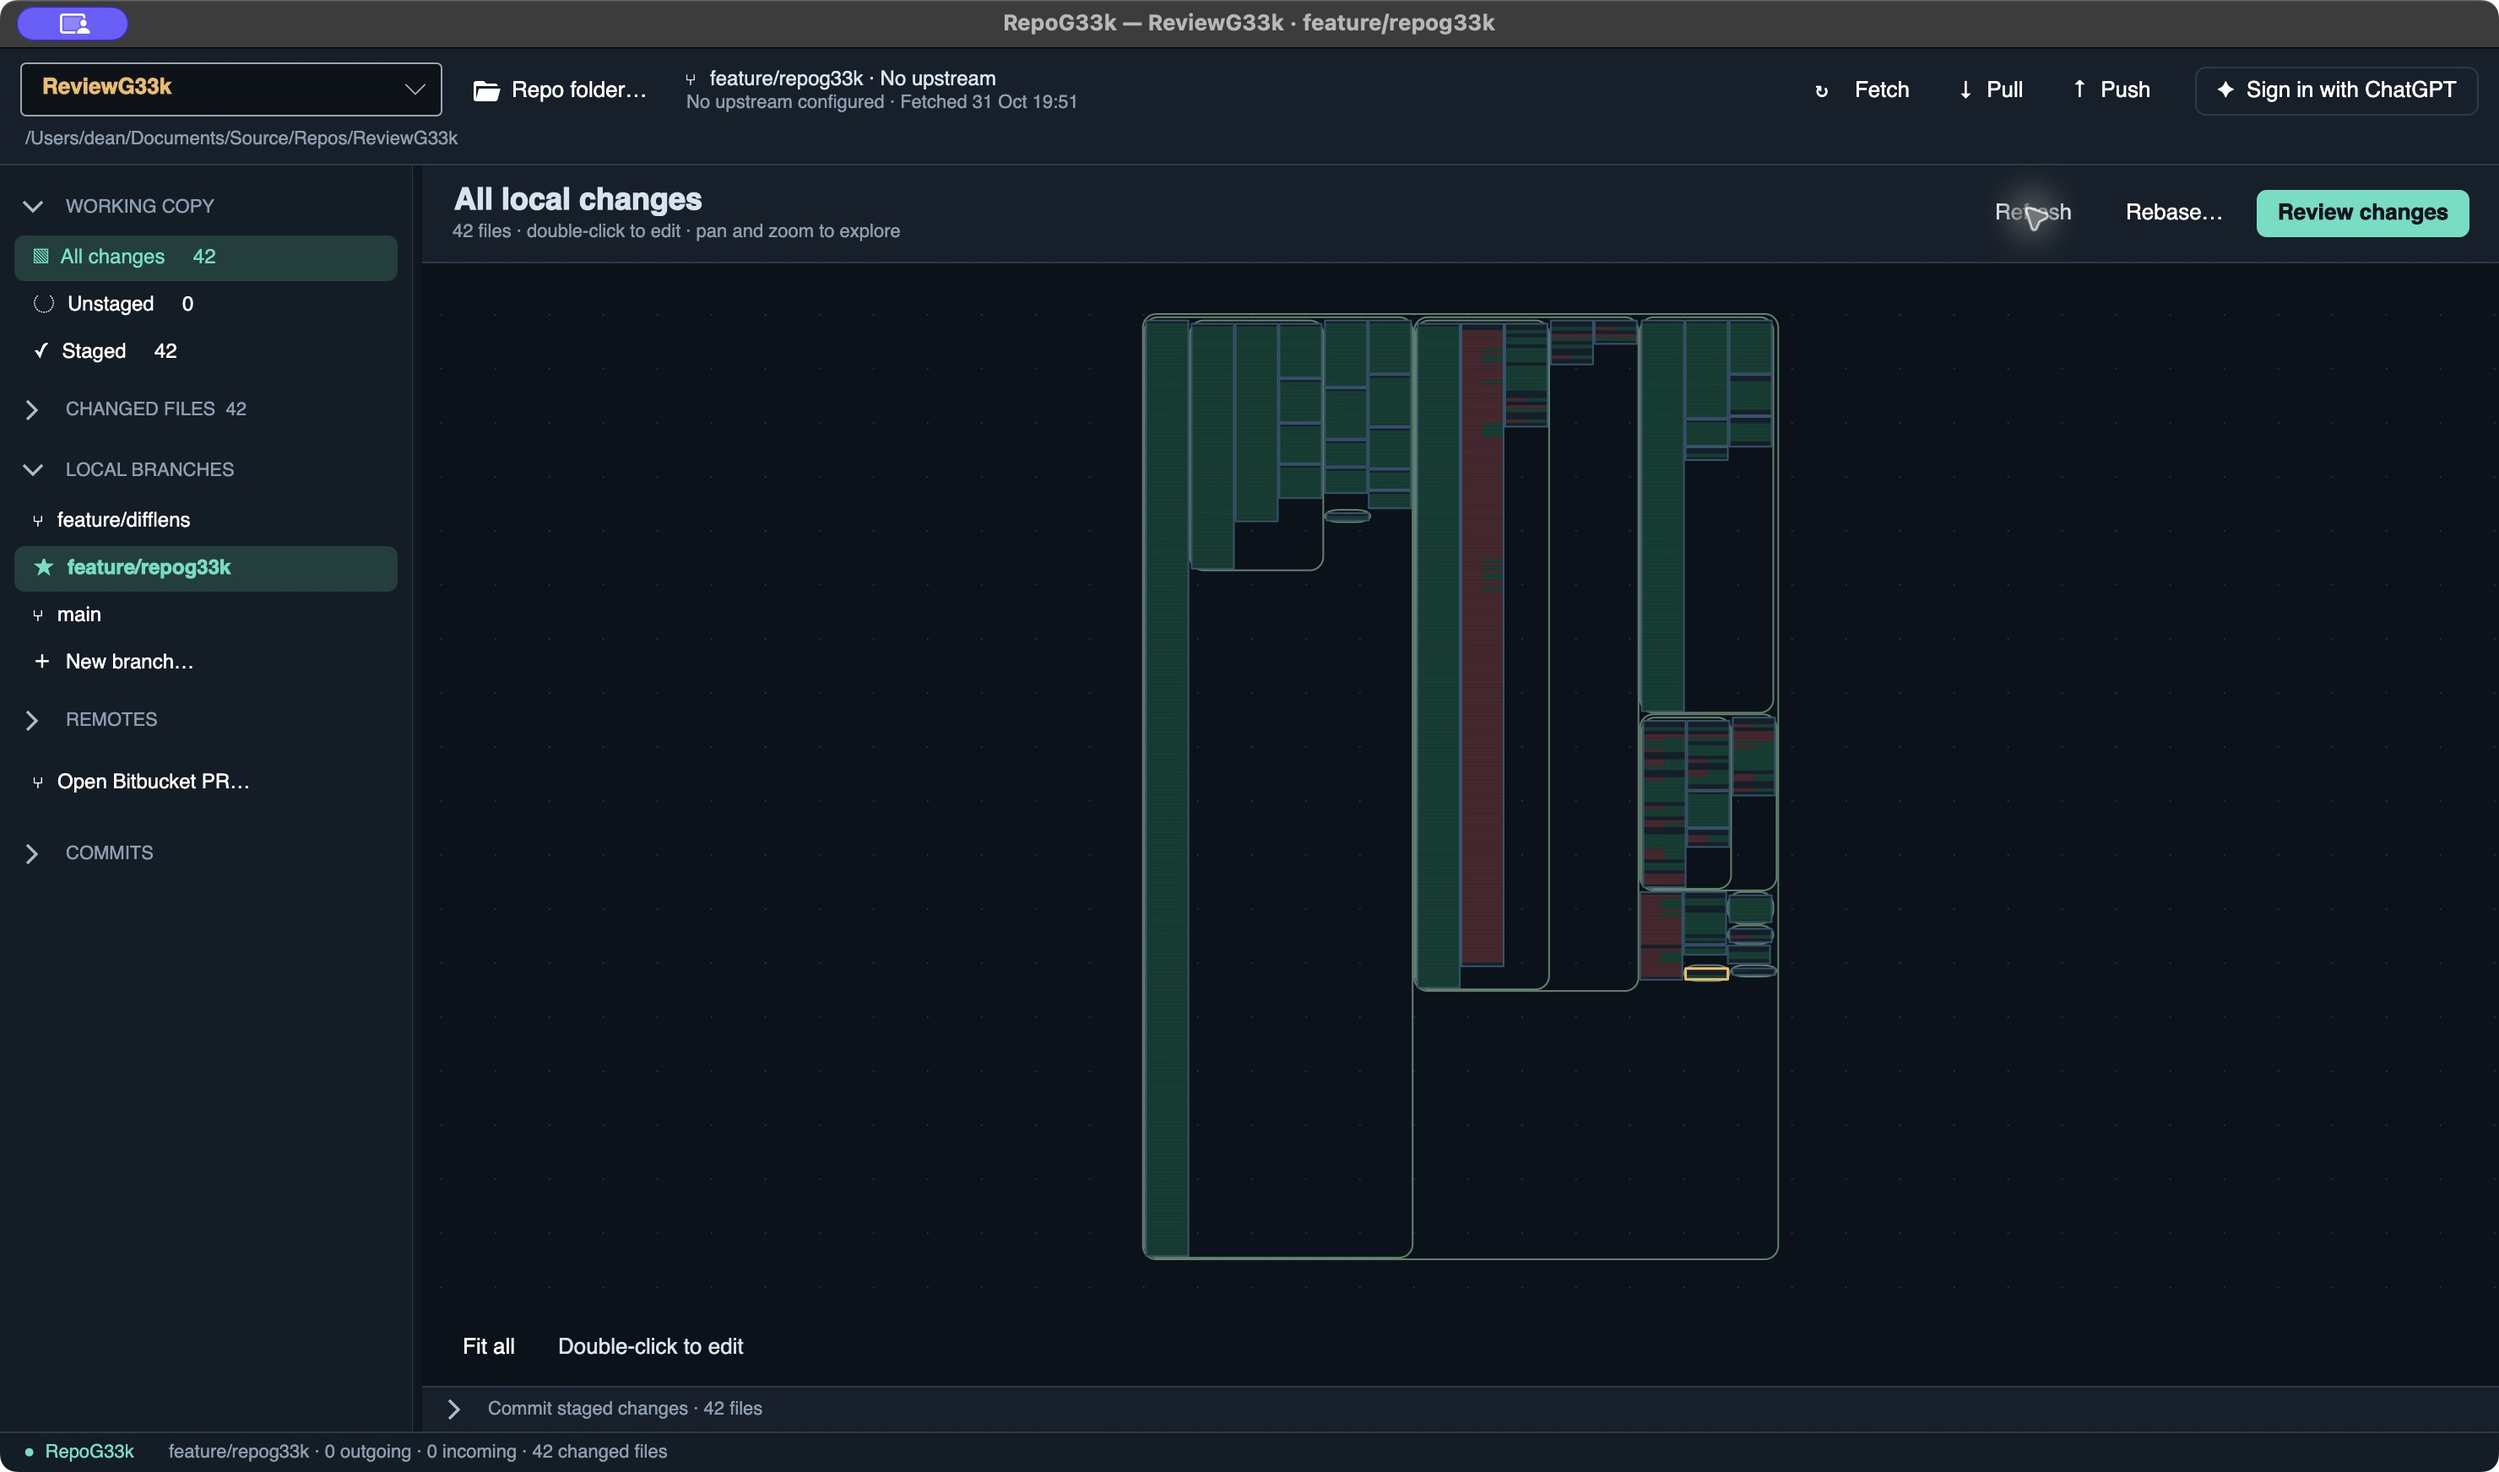
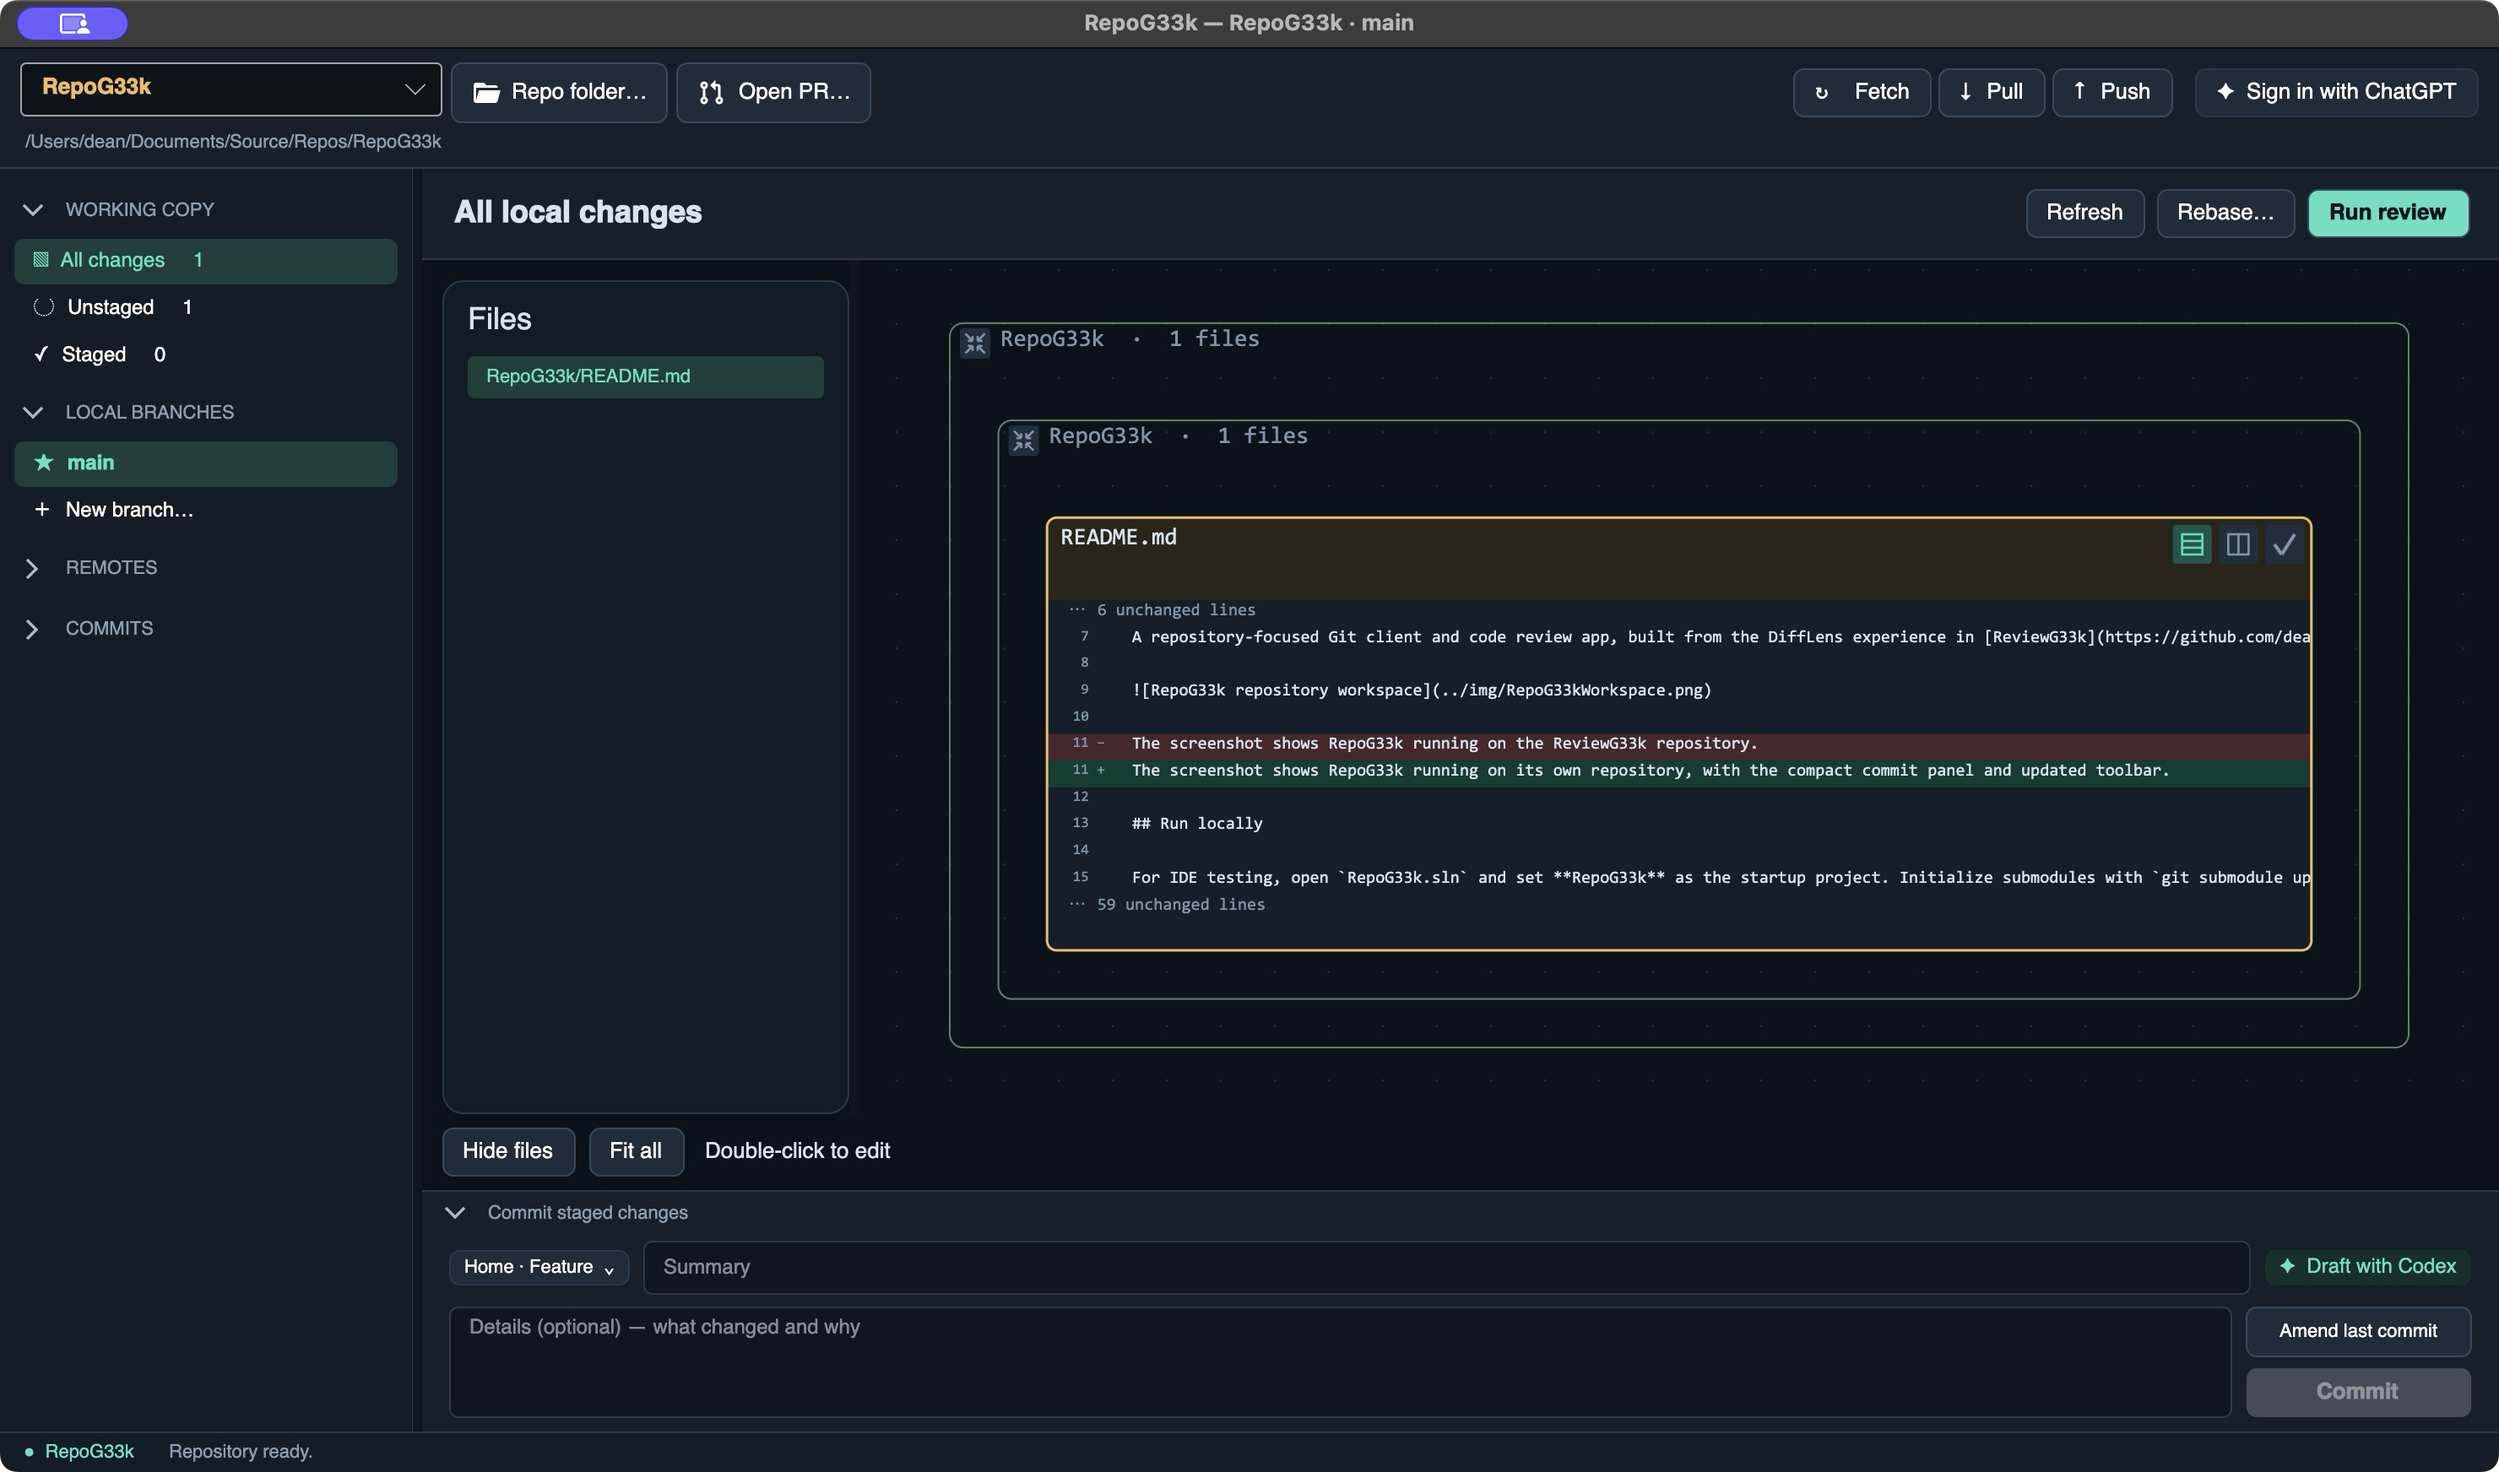
Feature: Refresh the RepoG33k workspace screenshot

diff --git a/RepoG33k/README.md b/RepoG33k/README.md
@@ -8,7 +8,7 @@ A repository-focused Git client and code review app, built from the DiffLens exp
 
 ![RepoG33k repository workspace](../img/RepoG33kWorkspace.png)
 
-The screenshot shows RepoG33k running on the ReviewG33k repository.
+The screenshot shows RepoG33k running on its own repository, with the compact commit panel and updated toolbar.
 
 ## Run locally
 
